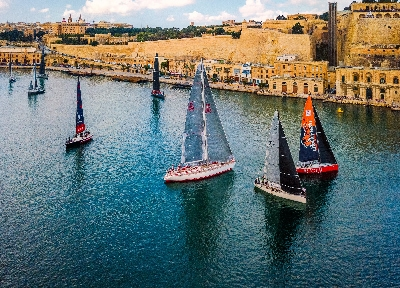
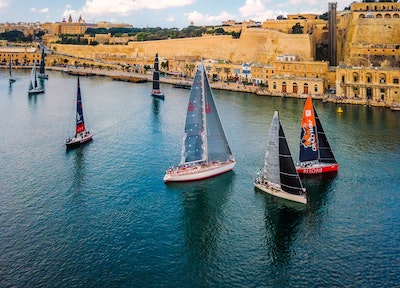
fix

diff --git a/src/client/foundation/pages/Top/internal/HeroImage/HeroImage.jsx b/src/client/foundation/pages/Top/internal/HeroImage/HeroImage.jsx
@@ -4,7 +4,8 @@ import styled from "styled-components";
 const Image = styled.img`
   display: block;
   margin: 0 auto;
-  padding-bottom: ${735 / 1024}%;
+  aspect-ratio: 1024 / 735;
+  height: auto;
 `;
 
 /**
